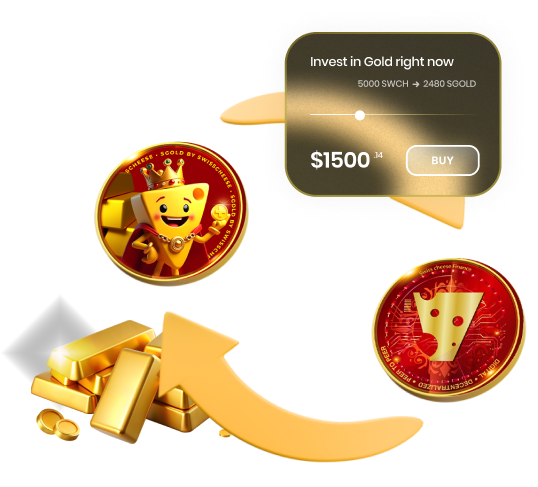
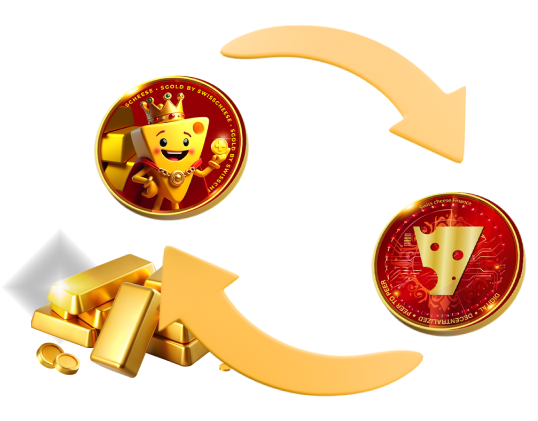
fix

diff --git a/src/components/SwapPanel.tsx b/src/components/SwapPanel.tsx
@@ -34,9 +34,9 @@ const SwapPanel: React.FC = () => {
           <div className='text-[24px] md:text-[36px] leading-[20px] md:leading-[28px] font-[500] mr-auto'>
             {amountToReceive}
           </div>
-          <div className='flex flex-row rounded-[20px] md:rounded-[32px] border-[1px] border-[#BCAE43B0] bg-[#F0DC9B26] items-center px-[20px] py-[10px]'>
+          <div className='flex flex-row rounded-[20px] md:rounded-[32px] border border-[#BCAE43B0] bg-[#F0DC9B26] items-center px-2 sm:px-[20px] py-1 sm:py-[10px]'>
             <Image src={'/image/tokens/swch-small.png'} alt='nav-home' width={31} height={31} />
-            <div className='text-[10px] md:text-[18px] leading-[8px] md:leading-[14px] font-[500] ml-2'>
+            <div className='text-sm md:text-md lg:text-lg font-semibold ml-2'>
               {'SWCH'}
             </div>
             <FaChevronDown className='ml-2 stroke-4' />
@@ -78,9 +78,9 @@ const SwapPanel: React.FC = () => {
           <div className='text-[24px] md:text-[36px] leading-[20px] md:leading-[28px] font-[500] mr-auto'>
             {amountToPay}
           </div>
-          <div className='flex flex-row rounded-[20px] md:rounded-[32px] border-[1px] border-[#BCAE43B0] bg-[#F0DC9B26] items-center px-[20px] py-[10px]'>
+          <div className='flex flex-row rounded-[20px] md:rounded-[32px] border-[1px] border-[#BCAE43B0] bg-[#F0DC9B26] items-center px-2 sm:px-[20px] py-1 sm:py-[10px]'>
             <Image src={'/image/tokens/sgold-small.png'} alt='nav-home' width={31} height={31} />
-            <div className='text-[10px] md:text-[18px] leading-[8px] md:leading-[14px] font-[500] ml-2'>
+            <div className='text-sm md:text-md lg:text-lg font-semibold ml-2'>
               {'SGOLD'}
             </div>
             <FaChevronDown className='ml-2' />
@@ -90,7 +90,7 @@ const SwapPanel: React.FC = () => {
           Min.receive: {minReceive}
         </div>
       </div>
-      <div className='text-[14px] md:text-[24px] leading-[26px] md:leading-[44px] font-[600] text-[#FFD900] text-center py-[10px]'>
+      <div className='text-sm md:text-md lg:text-lg font-semibold text-[#FFD900] text-center py-[10px]'>
         {1} {'SWCH'} = {swapRatio} {'SGOLD'}
       </div>
       <div>

diff --git a/src/app/[pages]/home/page.tsx b/src/app/[pages]/home/page.tsx
@@ -60,7 +60,7 @@ const Home: React.FC = () => {
                 <h2 className='text-yellow-100 text-sm max-w-[500px] pl-20 pr-2'>{text1}</h2>
               </div>
               <div className='flex flex-col'>
-                <Image src={'/image/image-1.png'} alt='image-1' width={538} height={487} />
+                <Image src={'/image/image-1.png'} alt='image-1' width={538} height={421} />
               </div>
             </div>
             {/* division */}
